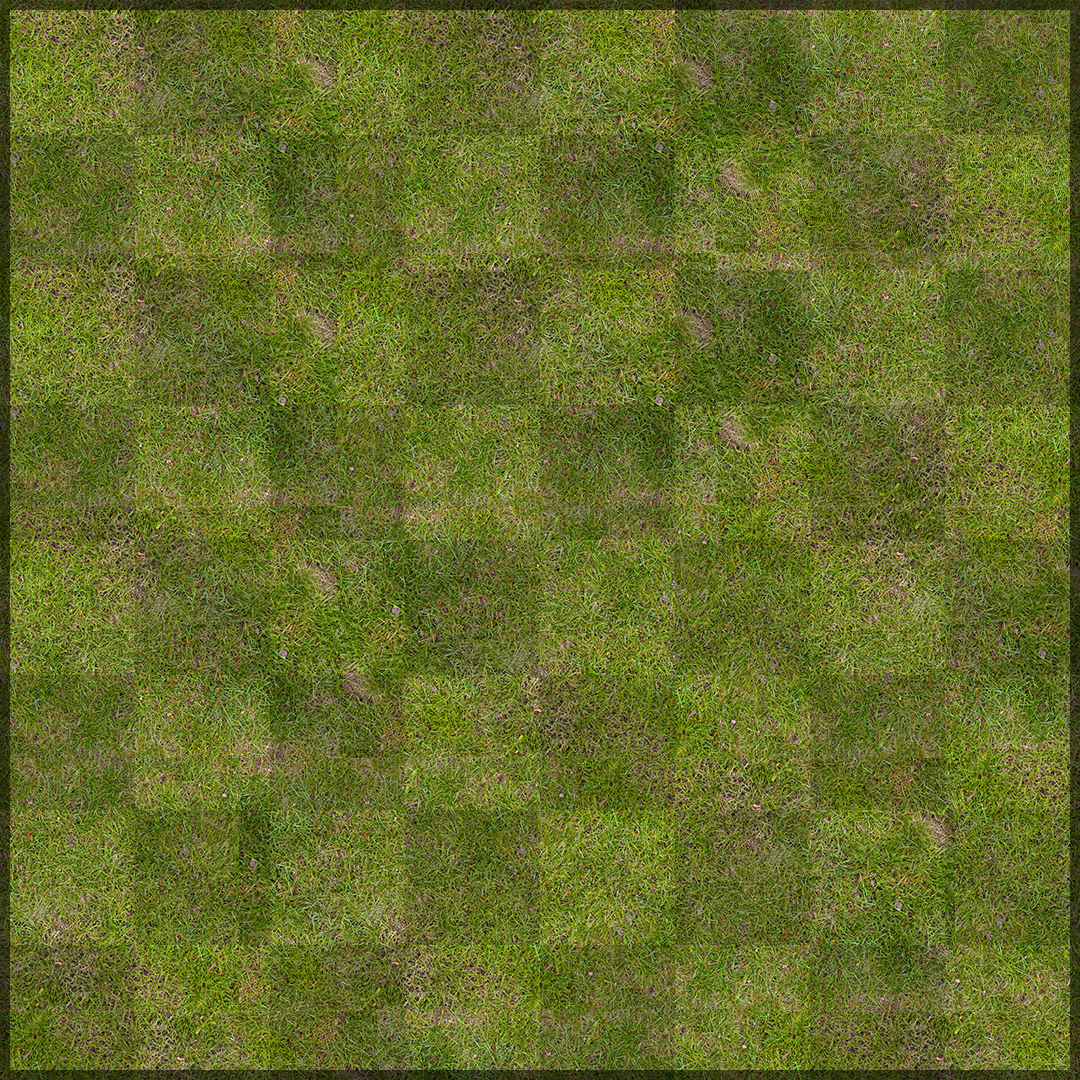
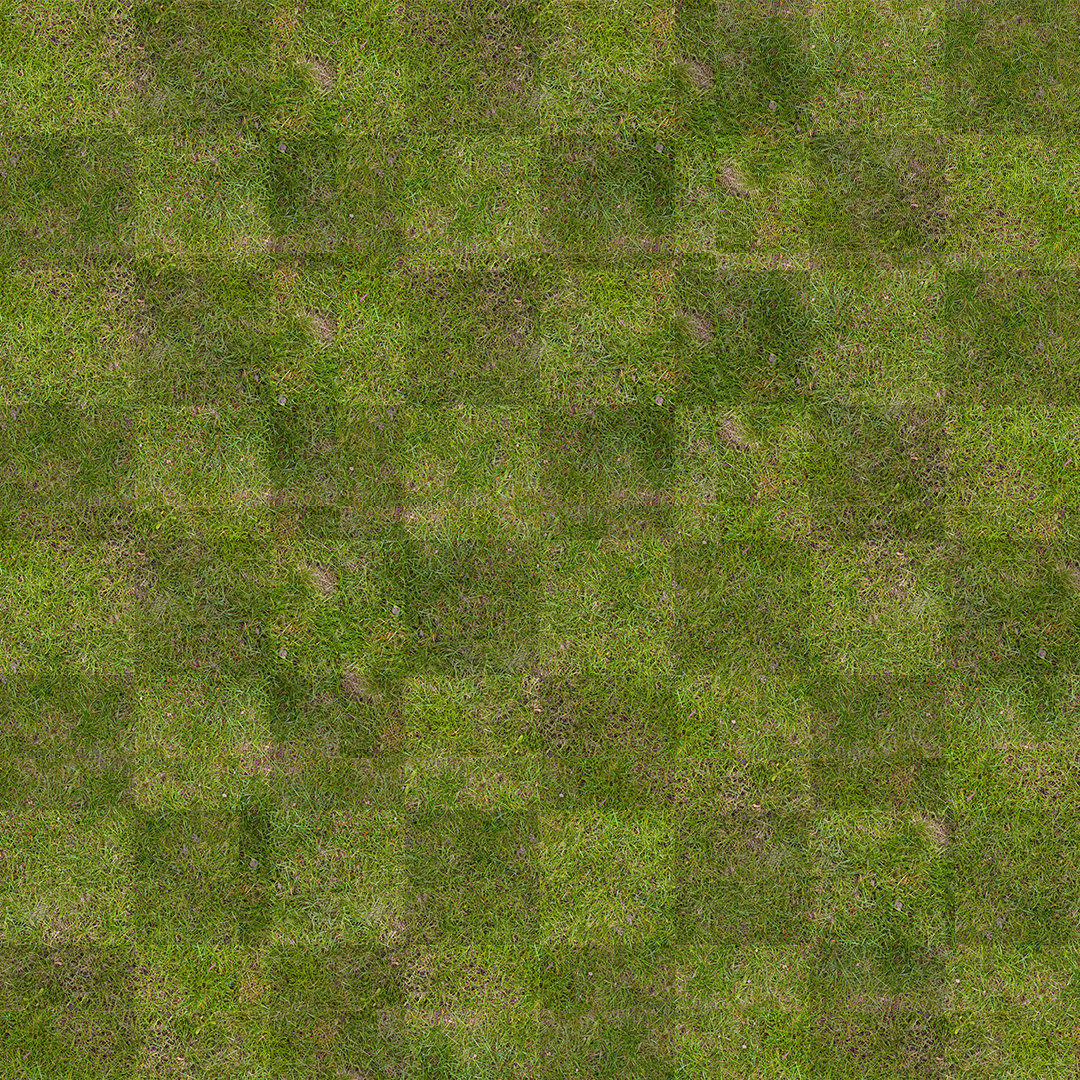
finished tractor, removed border from background
click tractor when close enough to enter

Changed region(s): [[0.0, 0.0, 1.0, 1.0]]

diff --git a/core/src/com/kacstudios/game/actors/Tractor.java b/core/src/com/kacstudios/game/actors/Tractor.java
@@ -4,13 +4,15 @@ import com.badlogic.gdx.Gdx;
 import com.badlogic.gdx.Input;
 import com.badlogic.gdx.graphics.g2d.Animation;
 import com.badlogic.gdx.graphics.g2d.TextureRegion;
+import com.badlogic.gdx.scenes.scene2d.Event;
+import com.badlogic.gdx.scenes.scene2d.InputEvent;
 import com.badlogic.gdx.scenes.scene2d.Stage;
 
-import javax.xml.stream.FactoryConfigurationError;
+import java.awt.geom.Point2D;
 
 public class Tractor extends BaseActor {
-    private boolean remove;
     private Farmer farmer;
+    private boolean active = false;
     Animation<TextureRegion> leftAnimation;
     Animation<TextureRegion> rightAnimation;
     Animation<TextureRegion> upAnimation;
@@ -22,99 +24,146 @@ public class Tractor extends BaseActor {
         super(x,y,s);
         String[] leftMovementFiles = {"tractor-left-1.png"};
         String[] rightMovementFiles = {"tractor-right-1.png"};
-        String[] upMovementFiles = {"tractor-right-1.png"};
-        String[] downMovementFiles = {"tractor-right-1.png"};
+        String[] upMovementFiles = {"tractor-up-1.png"};
+        String[] downMovementFiles = {"tractor-down-1.png"};
 
         leftAnimation = loadAnimationUnsetFromFiles(leftMovementFiles, 0.1f, true);
-        rightAnimation = loadAnimationUnsetFromFiles(rightMovementFiles,0.1f,true);
+        rightAnimation = loadAnimationFromFiles(rightMovementFiles,0.1f,true);
         upAnimation = loadAnimationUnsetFromFiles(upMovementFiles,0.1f,true);
         downAnimation = loadAnimationUnsetFromFiles(downMovementFiles,0.1f,true);
-        setAcceleration(1000);
-        setMaxSpeed(500);
-        setDeceleration(1000);
+        setAcceleration(2000);
+        setMaxSpeed(625);
+        setDeceleration(5000);
 
-        setBoundaryPolygon(8);
+        setBoundaryPolyCustom(new float[]{0,0, getWidth(),0, getWidth(),getHeight(), 0,getHeight()});
+
+//        adds click listener so that if the player is within 200 pixels of the tractor, they can click it to be added onto the tractor
+//        if the player is already on the tractor, then they are removed from the tractor
+        this.addListener(
+                (Event e) ->
+                {
+                    if (!(e instanceof InputEvent))
+                        return false;
+
+                    if (!((InputEvent) e).getType().equals(InputEvent.Type.touchDown))
+                        return false;
+
+                    if (active) removeFarmer();
+                    else {
+                        if (getDistanceFromFarmer() < 200) addFarmer();
+                    };
+
+                    return false;
+                }
+        );
+
     }
 
     public void act(float dt) {
 
         super.act(dt);
-
         if (farmer != null) {
-//            set farmer position on chair
-//            need to change with direction
-
-
-            if(Gdx.input.isKeyPressed(Input.Keys.UP)){
-                if(prevKey != Input.Keys.UP) {
-                    setAnimation(upAnimation);
-                };
-                prevKey = Input.Keys.UP;
-            }
-            else if (Gdx.input.isKeyPressed(Input.Keys.RIGHT)) {
-                if(prevKey != Input.Keys.RIGHT) {
-                    setAnimation(rightAnimation);
+            if (active) {
+                if(Gdx.input.isKeyPressed(Input.Keys.UP)){
+                    if(prevKey != Input.Keys.UP) {
+                        setAnimation(upAnimation);
+                    };
+                    prevKey = Input.Keys.UP;
                 }
-                prevKey = Input.Keys.RIGHT;
-            }
-            else if (Gdx.input.isKeyPressed(Input.Keys.LEFT)) {
-                if(prevKey != Input.Keys.LEFT) {
-                    setAnimation(leftAnimation);
+                else if (Gdx.input.isKeyPressed(Input.Keys.RIGHT)) {
+                    if(prevKey != Input.Keys.RIGHT) {
+                        setAnimation(rightAnimation);
+                    }
+                    prevKey = Input.Keys.RIGHT;
                 }
-                prevKey = Input.Keys.LEFT;
-            }
-            else if (Gdx.input.isKeyPressed(Input.Keys.DOWN)) {
-                if (prevKey != Input.Keys.DOWN) {
-                    setAnimation(downAnimation);
+                else if (Gdx.input.isKeyPressed(Input.Keys.LEFT)) {
+                    if(prevKey != Input.Keys.LEFT) {
+                        setAnimation(leftAnimation);
+                    }
+                    prevKey = Input.Keys.LEFT;
                 }
-                prevKey = Input.Keys.DOWN;
+                else if (Gdx.input.isKeyPressed(Input.Keys.DOWN)) {
+                    if (prevKey != Input.Keys.DOWN) {
+                        setAnimation(downAnimation);
+                    }
+                    prevKey = Input.Keys.DOWN;
+                }
+
+                if (Gdx.input.isKeyPressed(Input.Keys.LEFT)) accelerateAtAngle(180);
+                if (Gdx.input.isKeyPressed(Input.Keys.RIGHT)) accelerateAtAngle(0);
+                if (Gdx.input.isKeyPressed(Input.Keys.UP)) accelerateAtAngle(90);
+                if (Gdx.input.isKeyPressed(Input.Keys.DOWN)) accelerateAtAngle(270);
+
+                applyPhysics(dt);
+
+                switch (prevKey) {
+                    case Input.Keys.LEFT:
+                        farmer.setPosition(this.getX() + 115, this.getY() + 70);
+                        setBoundaryPolyCustom(new float[]{0,0, getWidth(),0, getWidth(),getHeight(), 0,getHeight()});
+                        break;
+                    case Input.Keys.RIGHT:
+                        farmer.setPosition(this.getX() + 35, this.getY() + 70);
+                        setBoundaryPolyCustom(new float[]{0,0, getWidth(),0, getWidth(),getHeight(), 0,getHeight()});
+                        break;
+                    case Input.Keys.UP:
+                    case Input.Keys.DOWN:
+                        setBoundaryPolyCustom(new float[]{89,0, getWidth()-89,0, getWidth()-89,getHeight(), 89,getHeight()});
+                        farmer.setPosition(this.getX() + 75, this.getY() + 70);
+//                    farmer.setPosition(this.getX(), this.getY());
+//                    farmer.setPosition(this.getX() + 75, this.getY() + 50);
+                        break;
+                }
+
+                setAnimationPaused(!isMoving());
+
+                boundToWorld();
+
+                alignCamera();
             }
-
-            if (Gdx.input.isKeyPressed(Input.Keys.LEFT)) accelerateAtAngle(180);
-            if (Gdx.input.isKeyPressed(Input.Keys.RIGHT)) accelerateAtAngle(0);
-            if (Gdx.input.isKeyPressed(Input.Keys.UP)) accelerateAtAngle(90);
-            if (Gdx.input.isKeyPressed(Input.Keys.DOWN)) accelerateAtAngle(270);
-
-            applyPhysics(dt);
-
-            switch (prevKey) {
-                case Input.Keys.LEFT:
-                    farmer.setPosition(this.getX() + 105, this.getY() + 70);
-                    break;
-                case Input.Keys.RIGHT:
-                    farmer.setPosition(this.getX() + 25, this.getY() + 70);
-                    break;
-                case Input.Keys.UP:
-                    farmer.setPosition(this.getX() + 25, this.getY() + 70);
-                    break;
-                case Input.Keys.DOWN:
-                    farmer.setPosition(this.getX() + 25, this.getY() + 70);
-                    break;
+            else {
+                farmer.preventOverlap(this);
             }
-
-            setAnimationPaused(!isMoving());
-
-            boundToWorld();
-
-            alignCamera();
         }
     }
 
-
-    public void addFarmer(Farmer farmer) {
-        this.farmer = farmer;
+    /**
+     * Sets the tractor status as being actively used, which disables player movement, matches player speed to tractor speed, and mounts the player onto the tractor
+     */
+    private void addFarmer() {
+        active = true;
         farmer.setMovement(false);
-        farmer.setMaxSpeed(500);
+        farmer.setMaxSpeed(625);
 
     }
 
-    public void removeFarmer() {
+    /**
+     * Sets the tractor status as inactive, re-enabling player movement and resetting speed to normal
+     * Also forces tractor speed to 0, so that it doesn't slide when getting back on tractor for second time usage
+     */
+    private void removeFarmer() {
         farmer.setMovement(true);
         farmer.setMaxSpeed(200);
-        this.farmer = null;
+        this.setSpeed(0);
+        active = false;
     }
 
-    public boolean onTractor() {
-        return this.farmer != null;
+    /**
+     * Sets the farmer within the Tractor class so that it can be referred to within Tractor
+     * @param farmer that should be mounted onto tractor when in use
+     */
+    public void setFarmer(Farmer farmer) {
+        this.farmer = farmer;
+    }
+
+    /**
+     * @return Pixel distance between tractor and farmer
+     */
+    private double getDistanceFromFarmer() {
+        return Point2D.distance(
+                farmer.getX()+(farmer.getWidth()/2),
+                farmer.getY()+(farmer.getHeight()/2),
+                this.getX()+(this.getWidth()/2),
+                this.getY()+(this.getHeight()/2)
+        );
     }
 }

diff --git a/core/src/com/kacstudios/game/actors/Farmer.java b/core/src/com/kacstudios/game/actors/Farmer.java
@@ -17,6 +17,8 @@ public class Farmer extends BaseActor {
     Animation<TextureRegion> downAnimation;
     Animation<TextureRegion> leftTractorAnimation;
     Animation<TextureRegion> rightTractorAnimation;
+    Animation<TextureRegion> upTractorAnimation;
+    Animation<TextureRegion> downTractorAnimation;
     float previousAngle = -1;
     int prevKey = -1;
 
@@ -33,6 +35,8 @@ public class Farmer extends BaseActor {
         String[] upMovementFiles = {"farmer-up-1.png", "farmer-up-2.png", "farmer-up-3.png", "farmer-up-4.png", "farmer-up-5.png", "farmer-up-6.png", "farmer-up-7.png", "farmer-up-8.png"};
         String[] leftTractor = {"farmer-tractor-left.png"};
         String[] rightTractor = {"farmer-tractor-right.png"};
+        String[] upTractor = {"farmer-tractor-up.png"};
+        String[] downTractor = {"farmer-tractor-down.png"};
 
         downAnimation = loadAnimationFromFiles(downAnimationFiles, 0.1f, true);
         leftAnimation = loadAnimationUnsetFromFiles(leftMovementFiles, 0.1f, true);
@@ -41,6 +45,9 @@ public class Farmer extends BaseActor {
 
         leftTractorAnimation = loadAnimationUnsetFromFiles(leftTractor,0.1f,true);
         rightTractorAnimation = loadAnimationUnsetFromFiles(rightTractor,0.1f,true);
+        upTractorAnimation = loadAnimationUnsetFromFiles(upTractor,0.1f,true);
+        downTractorAnimation = loadAnimationUnsetFromFiles(downTractor,0.1f,true);
+
         movement = true;
 
         setAcceleration(1000);
@@ -93,10 +100,31 @@ public class Farmer extends BaseActor {
             alignCamera();
         }
         else {
-            if (Gdx.input.isKeyPressed(Keys.LEFT))
-                setAnimation(leftTractorAnimation);
-            if (Gdx.input.isKeyPressed(Keys.RIGHT))
-                setAnimation(rightTractorAnimation);
+            if(Gdx.input.isKeyPressed(Keys.UP)){
+                if(prevKey != Keys.UP) setAnimation(upTractorAnimation);;
+                prevKey = Keys.UP;
+            }
+            else if (Gdx.input.isKeyPressed(Keys.RIGHT)) {
+                if(prevKey != Keys.RIGHT) setAnimation(rightTractorAnimation);;
+                prevKey = Keys.RIGHT;
+            }
+            else if (Gdx.input.isKeyPressed(Keys.LEFT)) {
+                if(prevKey != Keys.LEFT) setAnimation(leftTractorAnimation);
+                prevKey = Keys.LEFT;
+            }
+            else if (Gdx.input.isKeyPressed(Keys.DOWN)) {
+                if (prevKey != Keys.DOWN) setAnimation(downTractorAnimation);
+                prevKey = Keys.DOWN;
+            }
+
+//            if (Gdx.input.isKeyPressed(Keys.LEFT))
+//                setAnimation(leftTractorAnimation);
+//            if (Gdx.input.isKeyPressed(Keys.RIGHT))
+//                setAnimation(rightTractorAnimation);
+//            if (Gdx.input.isKeyPressed(Keys.UP))
+//                setAnimation(upTractorAnimation);
+//            if (Gdx.input.isKeyPressed(Keys.DOWN))
+//                setAnimation(downTractorAnimation);
         }
 
 
@@ -111,6 +139,7 @@ public class Farmer extends BaseActor {
 
         setAnimationPaused( !isMoving() );
 
+//        alignCamera();
 //        if ( getSpeed() > 0 )
 //            setRotation( getMotionAngle() );
 

diff --git a/core/src/com/kacstudios/game/screens/LevelScreen.java b/core/src/com/kacstudios/game/screens/LevelScreen.java
@@ -24,6 +24,7 @@ import com.kacstudios.game.utilities.TimeEngine;
 import com.kacstudios.game.windows.PauseWindow;
 
 
+import java.awt.geom.Point2D;
 import java.util.ArrayList;
 import java.util.List;
 
@@ -34,6 +35,7 @@ public class LevelScreen extends BaseScreen {
     private Grid grid;
     PauseWindow pauseWindow;
     private HUD hud;
+    private double distanceFromTractor;
 
     public void initialize() {
         // placeholder initial inventory
@@ -98,34 +100,21 @@ public class LevelScreen extends BaseScreen {
                 }
         );
 
-//        add in grid squares
-
-        grid.addGridSquare(2, 2, new CornPlant(false));
-        grid.addGridSquare(2, 3, new CornPlant(false));
-        grid.addGridSquare(3, 2, new CornPlant(false));
-        grid.addGridSquare(3, 3, new CornPlant(false));
-
         mainStage.addActor(grid); // add grid to stage
 //        add in farmer actor
-        tractor = new Tractor(100,100,mainStage);
         farmer = new Farmer(20, 20, mainStage);
-        tractor.addFarmer(farmer);
+        tractor = new Tractor(500,100,mainStage);
+        tractor.setFarmer(farmer);
     }
 
     public void update(float dt) {
-        //pass
+
     }
 
     public boolean keyDown(int keyCode) {
         if (Gdx.input.isKeyPressed(Input.Keys.ESCAPE))
             pauseWindow.setVisible();
-        if (Gdx.input.isKeyPressed(Input.Keys.B))
-            if (tractor.onTractor()) {
-                tractor.removeFarmer();
-            }
-            else {
-                tractor.addFarmer(farmer);
-            }
+
         return true;
     }
 

diff --git a/core/src/com/kacstudios/game/actors/BaseActor.java b/core/src/com/kacstudios/game/actors/BaseActor.java
@@ -725,4 +725,13 @@ public class BaseActor extends Group
         super.draw( batch, parentAlpha );
     }
 
+
+    /**
+     *  Overrides boundaries for collision with other entities with custom x,y coordinates <br>
+     *  @param inputVertices (list of x,y points to be added to poly, starting at bottom left corner)
+     *
+     */
+    public void setBoundaryPolyCustom(float[] inputVertices) {
+        boundaryPolygon = new Polygon(inputVertices);
+    }
 }
